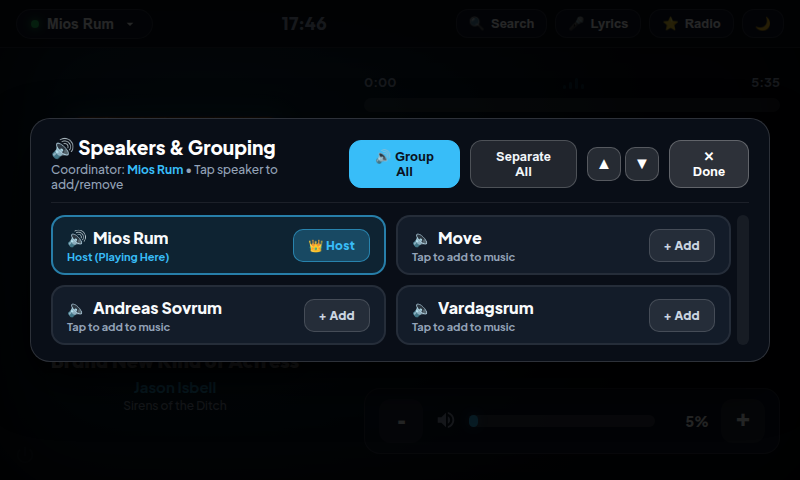
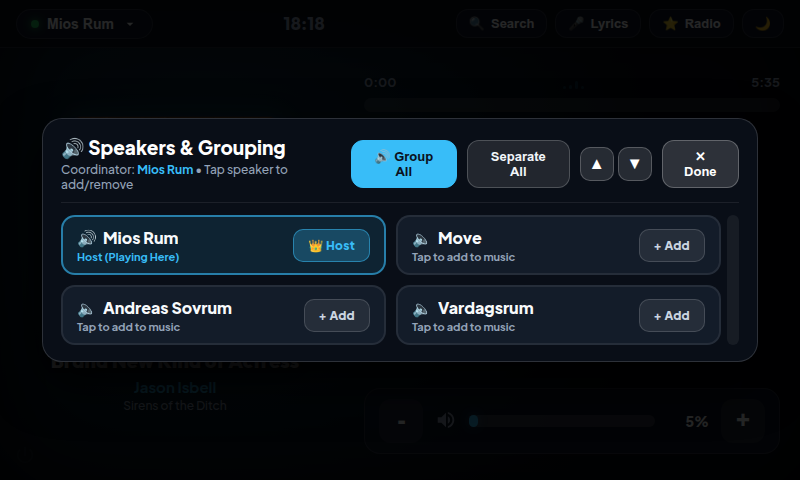
Allow tapping on the side / backdrop to dismiss Speakers & Grouping modal

diff --git a/static/app.js b/static/app.js
@@ -437,6 +437,15 @@ if (btnCloseRoomModal) {
     });
 }
 
+// Tap on the side / backdrop outside the card to close modal and return to main screen
+if (roomModal) {
+    roomModal.addEventListener("click", (e) => {
+        if (e.target === roomModal && touchMovedDistance <= 10) {
+            roomModal.classList.remove("open");
+        }
+    });
+}
+
 if (btnGroupAll) {
     btnGroupAll.addEventListener("click", async () => {
         btnGroupAll.disabled = true;
@@ -829,6 +838,14 @@ if (btnCancelAddFav) {
     });
 }
 
+if (addFavoriteModal) {
+    addFavoriteModal.addEventListener("click", (e) => {
+        if (e.target === addFavoriteModal) {
+            addFavoriteModal.classList.remove("open");
+        }
+    });
+}
+
 if (btnSubmitAddFav) {
     btnSubmitAddFav.addEventListener("click", async () => {
         const title = inputFavTitle ? inputFavTitle.value.trim() : "";
@@ -972,6 +989,12 @@ function bindPowerModalButtons() {
     document.getElementById("btn-close-power-modal")?.addEventListener("click", () => {
         powerModal.classList.remove("open");
     });
+
+    powerModal.onclick = (e) => {
+        if (e.target === powerModal) {
+            powerModal.classList.remove("open");
+        }
+    };
 
     document.getElementById("btn-power-exit")?.addEventListener("click", () => {
         handleSystemAction("/api/system/exit", null, "🚪", "Exiting to Desktop...", "Closing kiosk window and stopping controller.");

diff --git a/static/style.css b/static/style.css
@@ -767,12 +767,12 @@ body.touch-screen {
 }
 
 .modal-card.room-grouping-card {
-    width: 740px;
+    width: 716px;
     max-height: 440px;
     background: #090e17;
     border: 1px solid rgba(255, 255, 255, 0.15);
     border-radius: 20px;
-    padding: 16px 20px;
+    padding: 16px 18px;
     display: flex;
     flex-direction: column;
     gap: 12px;
